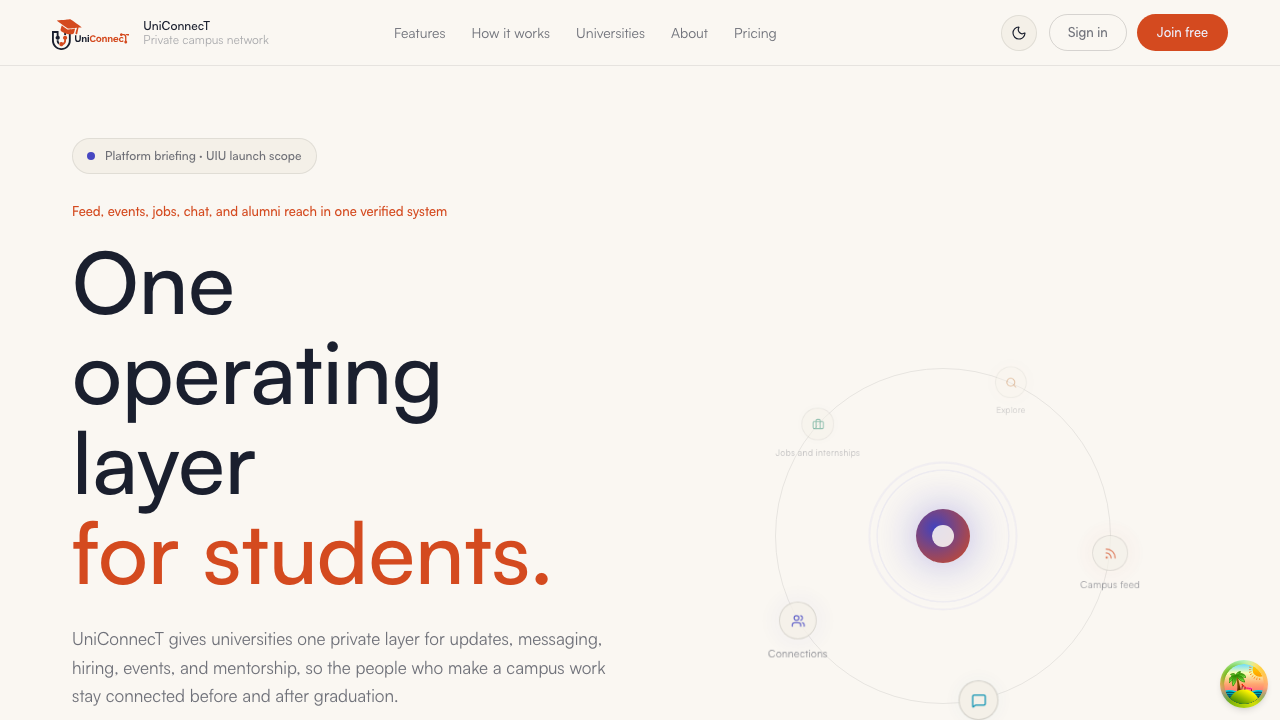
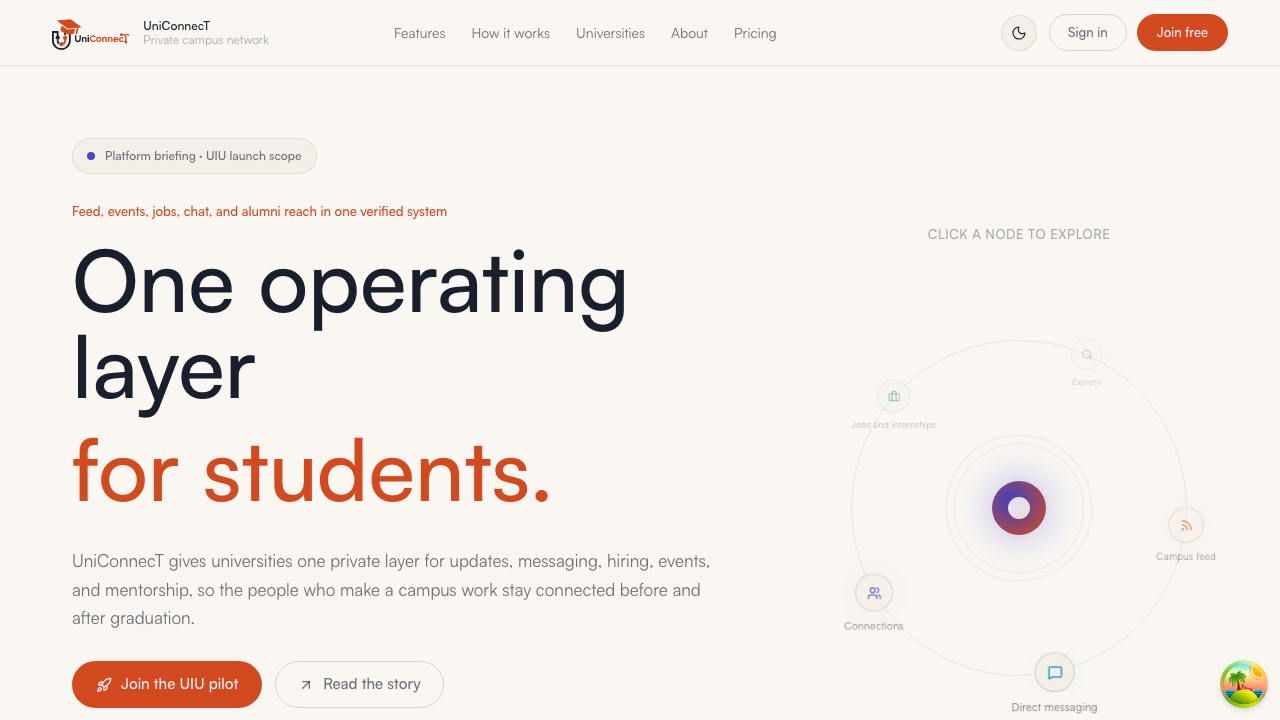
update

diff --git a/apps/web/playwright-report/index.html b/apps/web/playwright-report/index.html
@@ -87,4 +87,4 @@ Error generating stack: `+l.message+`
     <div id='root'></div>
   </body>
 </html>
[2 lines of base64/hex data omitted]

diff --git a/apps/web/src/features/landing/components/HeroSection.tsx b/apps/web/src/features/landing/components/HeroSection.tsx
@@ -210,7 +210,7 @@ export function HeroSection() {
               fontSize: 17,
               lineHeight: 1.7,
               color: 'var(--text-secondary)',
-              maxWidth: 560,
+              maxWidth: 640,
             }}
           >
             UniConnecT gives universities one private layer for updates, messaging, hiring,
@@ -268,7 +268,21 @@ export function HeroSection() {
             alignItems: 'stretch',
           }}
         >
-          <div className="w-full flex items-center justify-center">
+          <div className="w-full flex flex-col items-center justify-center gap-6">
+            <p
+              className="reveal"
+              data-delay="400"
+              style={{
+                margin: 0,
+                fontSize: 13,
+                fontWeight: 500,
+                color: 'var(--text-tertiary)',
+                letterSpacing: '0.5px',
+                textTransform: 'uppercase'
+              }}
+            >
+              Click a node to explore
+            </p>
              <RadialOrbitalTimeline nodes={HERO_NODES} />
           </div>
         </div>

diff --git a/apps/web/src/styles/landing.css b/apps/web/src/styles/landing.css
@@ -300,7 +300,7 @@
   margin: 0 auto;
   min-height: calc(100vh - 66px);
   display: grid;
-  grid-template-columns: minmax(0, 1.02fr) minmax(0, 0.98fr);
+  grid-template-columns: minmax(0, 1.3fr) minmax(0, 0.7fr);
   gap: 56px;
   align-items: center;
   padding: 72px 52px 60px;
@@ -321,7 +321,7 @@
 .uc-hero-kinetic-window {
   position: relative;
   display: block;
-  height: 1.05em;
+  height: 1.2em;
   overflow: hidden;
   color: var(--uc-orange);
 }
@@ -341,7 +341,7 @@
 .uc-hero-kinetic-track > span {
   display: flex;
   align-items: center;
-  min-height: 1.05em;
+  height: 1.2em;
   white-space: nowrap;
 }
 
